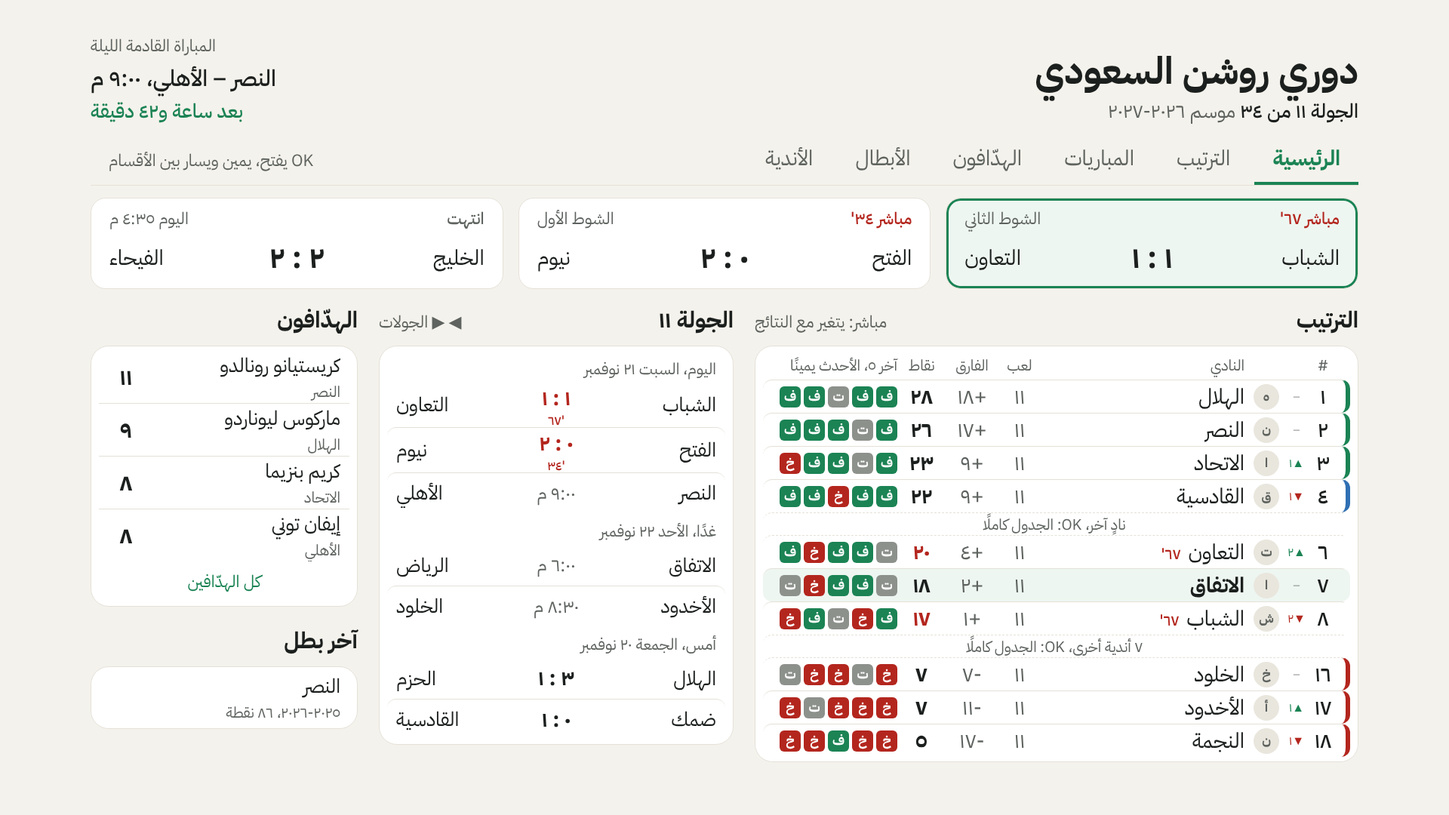
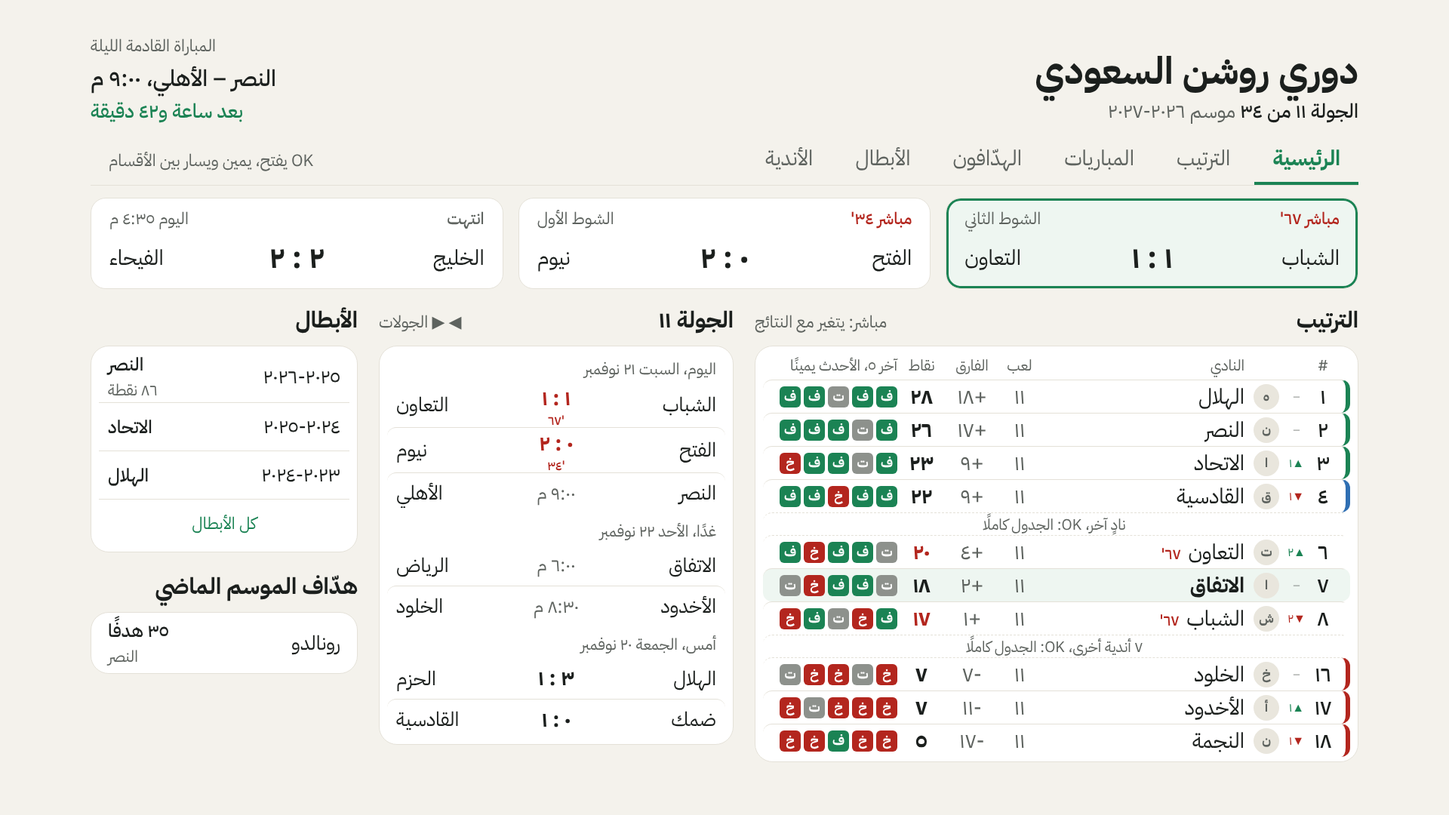
4.5 league page v2: the tester's site visit folded into the study (leagues and clubs), a club page mockup on the honours data, the home's scorers column replaced by what the data has

diff --git a/docs/mockups/league-v2/mock.html b/docs/mockups/league-v2/mock.html
@@ -159,6 +159,30 @@
   .btns button.pri{background:var(--pri);color:#fff;border-color:var(--pri)}
   .btns button.fr{box-shadow:0 0 0 calc(var(--u)*3) var(--dlg),0 0 0 calc(var(--u)*6) var(--fring)}
   .peek{color:var(--fs);font-size:calc(var(--u)*21);text-align:center;margin-top:calc(var(--u)*14)}
+  /* ---- the club page (v2): a header with the badge and the place, the form tiles and the next game, then the table around it, the coming games, the titles */
+  .ch{display:flex;align-items:center}
+  .ch .bd{width:calc(var(--u)*104);height:calc(var(--u)*104);font-size:calc(var(--u)*44);margin:0 0 0 calc(var(--u)*28)}
+  .ch h1{font-size:calc(var(--u)*56);font-weight:700;line-height:1.1}
+  .ch .sub{color:var(--fs);font-size:calc(var(--u)*26);margin-top:calc(var(--u)*4)}
+  .ch .sub b{color:var(--fi);font-weight:500}
+  .row2{display:flex;margin-top:calc(var(--u)*22)}
+  .fts{display:flex}
+  .ft{width:calc(var(--u)*128);margin-left:calc(var(--u)*14);text-align:center}
+  .ft b{display:block;border-radius:calc(var(--u)*12);color:#fff;font-size:calc(var(--u)*30);font-weight:700;padding:calc(var(--u)*10) 0;unicode-bidi:isolate}   /* RTL: the club's own goals first, on the right */
+  .ft b.w{background:var(--z1)}.ft b.d{background:#8D918C}.ft b.l{background:var(--z3)}
+  .ft span{display:block;color:var(--fs);font-size:calc(var(--u)*21);margin-top:calc(var(--u)*6);white-space:nowrap;overflow:hidden;text-overflow:ellipsis}
+  .ncard{flex:1;margin-right:calc(var(--u)*28);padding:calc(var(--u)*16) calc(var(--u)*28);display:flex;align-items:center;justify-content:space-between}
+  .ncard .k{color:var(--fs);font-size:calc(var(--u)*22)}
+  .ncard .v{font-size:calc(var(--u)*34);font-weight:700;margin-top:calc(var(--u)*4)}
+  .ncard .t{text-align:left;color:var(--fgr);font-weight:500;font-size:calc(var(--u)*28)}
+  .ncard .t i{display:block;font-style:normal;color:var(--fs);font-weight:400;font-size:calc(var(--u)*22)}
+  .hon{list-style:none;padding:calc(var(--u)*6) calc(var(--u)*10)}
+  .hon li{display:flex;align-items:center;justify-content:space-between;min-height:calc(var(--u)*64);padding:0 calc(var(--u)*12)}
+  .hon li + li{border-top:1px solid var(--fln)}
+  .hon li span{font-size:calc(var(--u)*26)}
+  .hon li i{font-style:normal;color:var(--fs);font-size:calc(var(--u)*21);text-align:left}
+  .hon li i b{display:block;color:var(--fi);font-weight:500;font-size:calc(var(--u)*24)}
+  .src{color:var(--fs);font-size:calc(var(--u)*19);margin-top:calc(var(--u)*8)}
 </style>
 </head>
 <body>
@@ -207,6 +231,29 @@ function gr(a, x, b, kind, small){
 const SCORERS = [['كريستيانو رونالدو','النصر',11],['ماركوس ليوناردو','الهلال',9],['كريم بنزيما','الاتحاد',8],['إيفان توني','الأهلي',8]];
 
 const SCREENS = {
+  clubpage(){
+    const t = CLUBS.map((c, i) => [c, i]), me = 1;   // النصر, 2nd
+    const tiles = [['٢ : ٠','w','الخليج'],['١ : ١','d','الأهلي'],['٣ : ١','w','الفتح'],['٢ : ٠','w','ضمك'],['٤ : ٠','w','الرياض']];   // oldest first; newest on the right, next to the next game
+    return `<div class="pg">
+      <div class="hd"><div class="ch">${badge('النصر').replace('class="bd"', 'class="bd"')}<div><h1>النصر</h1><div class="sub"><b>الثاني في دوري روشن السعودي</b>  ٢٦ نقطة من ١١ مباراة</div></div></div>
+        <div class="nx"><div class="k">آخر بطولة</div><div class="v">دوري روشن ٢٠٢٥-٢٠٢٦</div></div></div>
+      <ul class="tabs"><li class="on">النادي</li><li>المباريات</li><li>النتائج</li><li>البطولات</li><li>المواجهات</li><li class="f">أزل النصر من فرقي</li><li class="hint">OK يفتح، يمين ويسار بين الأقسام</li></ul>
+      <div class="row2">
+        <div><h2>آخر ٥ <i>الأحدث يمينًا</i></h2><div class="fts">${tiles.reverse().map(x => `<div class="ft"><b class="${x[1]}">${x[0]}</b><span>${x[2]}</span></div>`).join('')}</div></div>
+        <div class="ncard card"><div><div class="k">المباراة القادمة، الجولة ١١</div><div class="v">النصر – الأهلي</div></div><div class="t">الليلة ٩:٠٠ م<i>بعد ساعة و٤٢ دقيقة</i></div></div>
+      </div>
+      <div class="cols">
+        <div style="width:calc(var(--u)*760)"><h2>في الترتيب <i>OK: الجدول كاملًا</i></h2>
+          <ul class="tb card">${head(false)}${t.slice(0, 6).map(x => row(x[0], x[1], false, x[1] === me)).join('')}</ul></div>
+        <div style="width:calc(var(--u)*470)"><h2>المباريات القادمة</h2>
+          <ul class="gl card"><li class="gd">الجولة ١١، السبت ٢١ نوفمبر</li>${gr('النصر','٩:٠٠ م','الأهلي')}<li class="gd">الجولة ١٢، الجمعة ٢٨ نوفمبر</li>${gr('القادسية','٨:٠٠ م','النصر')}
+            <li class="gd">الجولة ١٣، الخميس ٤ ديسمبر</li>${gr('النصر','٨:٣٠ م','الخلود')}<li class="gd">دوري أبطال آسيا للنخبة، الثلاثاء ٩ ديسمبر</li>${gr('الغرافة','٧:٠٠ م','النصر')}</ul></div>
+        <div style="flex:1;min-width:0"><h2>البطولات</h2>
+          <ul class="hon card"><li><span>دوري روشن</span><i><b>٢٠٢٥-٢٠٢٦</b>و٩ قبله نعرفها</i></li><li><span>كأس الملك</span><i><b>٢٠٢٢-٢٠٢٣</b>و٦ قبله نعرفها</i></li>
+            <li><span>هدّاف الدوري</span><i><b>رونالدو، ٣٥ هدفًا</b>٢٠٢٣-٢٠٢٤</i></li></ul>
+          <div class="src">ما نعرف موسمه فقط، من ويكي بيانات ونتائج المباريات</div></div>
+      </div></div>`;
+  },
   home(){
     const t = CLUBS.map((c, i) => [c, i]);
     const pick = [...t.slice(0, 4), 'gap1', t[5], t[6], t[7], 'gap7', ...t.slice(15)];
@@ -221,10 +268,10 @@ const SCREENS = {
             ${gr('الشباب','١ : ١','التعاون','on',"٦٧'")}${gr('الفتح','٠ : ٢','نيوم','on',"٣٤'")}${gr('النصر','٩:٠٠ م','الأهلي')}
             <li class="gd">غدًا، الأحد ٢٢ نوفمبر</li>${gr('الاتفاق','٦:٠٠ م','الرياض')}${gr('الأخدود','٨:٣٠ م','الخلود')}
             <li class="gd">أمس، الجمعة ٢٠ نوفمبر</li>${gr('الهلال','٣ : ١','الحزم','sc')}${gr('ضمك','٠ : ١','القادسية','sc')}</ul></div>
-        <div style="flex:1;min-width:0"><h2>الهدّافون</h2>
-          <ul class="sc-l card">${SCORERS.map(s => `<li class="sc-r"><span class="n">${s[0]}<i>${s[1]}</i></span><b>${D(s[2])}</b></li>`).join('')}<li class="more">كل الهدّافين</li></ul>
-          <h2 style="margin-top:calc(var(--u)*22)">آخر بطل</h2>
-          <ul class="sc-l card"><li class="sc-r"><span class="n">النصر<i>٢٠٢٥-٢٠٢٦، ٨٦ نقطة</i></span></li></ul></div>
+        <div style="flex:1;min-width:0"><h2>الأبطال</h2>
+          <ul class="hon card"><li><span>٢٠٢٥-٢٠٢٦</span><i><b>النصر</b>٨٦ نقطة</i></li><li><span>٢٠٢٤-٢٠٢٥</span><i><b>الاتحاد</b></i></li><li><span>٢٠٢٣-٢٠٢٤</span><i><b>الهلال</b></i></li><li class="more" style="justify-content:center">كل الأبطال</li></ul>
+          <h2 style="margin-top:calc(var(--u)*22)">هدّاف الموسم الماضي</h2>
+          <ul class="hon card"><li><span>رونالدو</span><i><b>٣٥ هدفًا</b>النصر</i></li></ul></div>
       </div></div>`;
   },
   rounds(){

diff --git a/docs/research/LEAGUE-DESIGN-STUDY.md b/docs/research/LEAGUE-DESIGN-STUDY.md
@@ -17,7 +17,7 @@
 **المبادئ الخمسة:**
 
 1. **الصفحة تجيب عن «ماذا يحدث الآن وماذا بعده؟».** أعلاها: الجولة الحالية والعدّ للمباراة القادمة. تحته شريط المباشر.
-   ثم ثلاثة أعمدة: الترتيب، والجولة الحالية، والهدّافون. كل شيء آخر يبعد ضغطة OK واحدة.
+   ثم ثلاثة أعمدة: الترتيب، والجولة الحالية، والأبطال. كل شيء آخر يبعد ضغطة OK واحدة.
 2. **الترتيب في الرئيسية نافذة على الجدول، لا الجدول كله.** تُظهر الأوائل الأربعة، وفريقك والفريقين حوله، وفرق الهبوط.
    وضغطة OK تفتح الجدول كاملًا على شاشة واحدة: ١٨ صفًّا بلا تمرير، وكل الأعمدة.
 3. **لون وكلمة معًا، لا لون وحده.**
@@ -44,7 +44,22 @@
 4. نظرة سريعة على نادٍ من الجدول
 5. الرئيسية بالمظهر الداكن
 
+6. صفحة النادي
+
 كلها بحجم ١٩٢٠×١٠٨٠ و١٢٨٠×٧٢٠، وكلها بألوان صفحة «المباريات» نفسها.
+
+**ما رآه المختبِر بعينه (الخطوة ١٠٣، ١٨ نوفمبر):** فتح المختبِر FotMob وSofaScore وESPN وBBC وموقع الدوري الإنجليزي وموقع دوري روشن
+بدقة ١٢٨٠×٧٢٠، وصوّر الصفحات. هذا أكّد ما كان «لم يُتحقق». التفاصيل في القسم 2b. أهم ما وجده:
+- **المناطق:** شريط ملون على حافة الصف، في FotMob وSofaScore والدوري الإنجليزي وموقع دوري روشن.
+- **الشكل:** مربعات «ف ت خ»، في FotMob وSofaScore وBBC والدوري الإنجليزي.
+- **أسهم الصعود والنزول:** في موقع دوري روشن الرسمي وحده، وهي حركة منذ الجولة الماضية. وهو ما اقترحناه بالضبط.
+- **عمود «الخصم القادم»:** في FotMob وBBC والدوري الإنجليزي.
+- **صفحة النادي في FotMob:** صف «آخر ٥» نتائج ملونة، وبطاقة المباراة القادمة، والجدول وصف النادي مُبرز. ولا توجد فيها صفحة بطولات.
+
+**تصحيح:** بيانات الهدّافين من عمل 4.5 فيها **هدّاف كل موسم منتهٍ فقط**، لا قائمة هدّافي الموسم الجاري. لا يوجد مصدر مجاني مرخّص لأهداف كل
+مباراة. لذلك استبدلنا عمود الهدّافين في الرئيسية بـ«الأبطال» و«هدّاف الموسم الماضي».
+
+**صفحة النادي الجديدة:** النموذج ٦ في المجلد نفسه، وتفاصيلها في القسم 2c.
 
 **ما يحتاج قرار المالك:** في آخر الملف (قسم 8).
 
@@ -168,6 +183,71 @@ All of it must work with a D-pad at 3 m, at 720p, Arabic first, RTL.
 - **Scorebug trend for 2025-26: restraint.** The work is "not in adding more information, but in smarter ways to reveal it" ([SVG](https://www.sportsvideo.org/2026/06/09/designing-the-modern-scorebug-how-broadcast-graphics-teams-are-rethinking-the-most-important-element-on-screen/)). Logos have beaten letter codes ([Newscast Studio](https://www.newscaststudio.com/2025/09/25/fox-sports-nfl-score-bug-2025-season/)). Tight, square type loses its inner shapes at a distance ([critique](https://pimpmytype.com/fifa-2026-font/)).
 - **RTL charts.** Arabic outlets that mirror their UI mirror their charts too ([paper](https://rakotondravony.com/assets/pdf/alebri2024design.pdf)).
 
+### 2b. What the big sites do: the tester's own visit (step 103, 18 Nov)
+
+**Method.** The tester opened these sites at 1280×720, with no login and no cookies accepted. The images stay on the owner's PC. The notes
+are in `tester/league-shots.md` on `work/tester-report`. Where a note here differs from §2, this one is first-hand and wins.
+
+**Leagues.**
+
+| Site | Table columns | Zones | Form | Movement | Next / rounds |
+|---|---|---|---|---|---|
+| FotMob ([table](https://www.fotmob.com/leagues/536/table/saudi-pro-league)) | # team PL +- GD PTS Form Next | thin bar at the row start + legend (Champions League Elite, Qualification, League Two, Relegation) | last 5 squares, W green / D grey / L red | **none** | Next = the opponent's crest. Fixtures by date / round / team; Overview has «Round N» with arrows or a dropdown ([fixtures](https://www.fotmob.com/leagues/536/fixtures/saudi-pro-league)) |
+| SofaScore ([league](https://www.sofascore.com/football/tournament/saudi-arabia/saudi-pro-league/955)) | with All / Home / Away tabs | a small coloured chip with the zone code on the badge + «Rules and legend» below | last 5 squares | none | «By date / By round» with a «Round N» dropdown and arrows; a featured next-match card; heavy (popups, ads) |
+| ESPN ([table](https://www.espn.com/soccer/standings/_/league/KSA.1)) | club GP W D L F A GD P | none | none | none | a day strip with arrows and a calendar ([schedule](https://www.espn.com/soccer/schedule/_/league/KSA.1)) |
+| BBC Sport ([PL](https://www.bbc.com/sport/football/premier-league/table)) | P W D L F A GD Pts Form | thin separator lines between rows (after 4th, 5th), no legend in view | last 5 squares + a trailing «next» square | none | n/a |
+| premierleague.com ([tables](https://www.premierleague.com/en/tables)) | pos crest P W D L GF GA GD Pts Form Next | coloured bar at the row start | last 5 | none | Next = crest |
+| **spl.com.sa** ([standings](https://www.spl.com.sa/en/standings)) | **arrow** club P W D L GF GA GD PTS TREND | coloured bar at the row start | a TREND column that expands per club | **up green / down red / dash, since the last round** | «Overall» and season dropdowns |
+| Kooora / Yallakora | home pages only (ad and consent gates) | — | — | — | a yesterday / today / tomorrow strip with a match carousel |
+
+**Clubs (FotMob: Al-Hilal, Al-Nassr, Al-Ittihad, Liverpool; [Al-Hilal](https://www.fotmob.com/teams/2529/overview/al-hilal)).**
+- **Header:** the crest and country. Tabs: Overview, Table, Fixtures, Squad, Player stats, Team stats, Transfers, History, News.
+- **Overview, top row:** «Team form», the last 5 as coloured score chips with the opponent's crest under each; and «Next match», with the competition, time, both crests and date.
+- **Overview, below:**
+  - the league table with the club's row highlighted;
+  - a season-stats pitch with the best XI;
+  - «Fixture difficulty» for the next three;
+  - a fixtures carousel with arrows;
+  - Liverpool also has an AI-written daily news summary.
+- **Honours:** no honours page. History shows coach win % per season, past table positions, and a table per season ([history](https://www.fotmob.com/teams/2529/history/al-hilal)).
+- **Squad:** photo, name, position, flag, number, age, height and value.
+
+**What this changes in our proposal.**
+- **Confirmed:**
+  - the zone bar at the row's start, with a legend (FotMob, SofaScore, Premier League, spl.com.sa);
+  - form as W/D/L squares (four sites);
+  - movement arrows "since the last round". These are exactly the **official Roshn site's**, and that site is our users' reference, so we keep them.
+- **New idea, not taken for now:**
+  - a «next opponent» column (FotMob, BBC, Premier League). At 720p the full table has no room for it.
+  - Instead, the club sheet and the club page show the next game in full.
+- **Club page:** the FotMob overview's top row (form + next match) and its highlighted table are the backbone of our club page (§2c). Squad, player ratings and fixture difficulty are not taken: we have no data for them.
+- **Honours:** no big site gives honours a place on the club page. This is where our 4.5 honours data stands out: «البطولات» with the latest title per competition.
+
+### 2c. The club page proposal (mockup 6)
+
+[6-club-page-1080p.png](../mockups/league-v2/6-club-page-1080p.png) / [720p](../mockups/league-v2/6-club-page-720p.png)
+
+- **Header:**
+  - the badge (runtime, a letter circle until it loads), the name, and «الثاني في دوري روشن السعودي، ٢٦ نقطة من ١١ مباراة»;
+  - on the left, «آخر بطولة» from the honours champions files.
+- **Tabs:**
+  - «النادي» (this overview), then «المباريات», «النتائج», «البطولات» and «المواجهات»: today's club view's groups;
+  - follow / unfollow stays the last tab, as now.
+- **Top row:**
+  - «آخر ٥» as five score tiles, each the club's goals first, its colour, and the opponent under it, newest on the right;
+  - beside it, the next game card with the round and a fixed-box countdown.
+- **Below, «في الترتيب»:** the table window around the club, its row ringed, and OK opens the full table.
+- **Below, «المباريات القادمة»:** by round, including other competitions (the AFC game in the mockup).
+- **Below, «البطولات»:**
+  - each competition, with the latest title and «و٩ قبله نعرفها» (the honours study's honest count);
+  - «هدّاف الدوري» when one of the club's players was a season's top scorer (`scorers/<lg>/<season>.json`, `team` = the club's id).
+  - The source line is the honours one.
+- **Data:** all of it is there or coming in 4.5:
+  - `teams/<id>.json` for the next and last games;
+  - `sports/<lg>.json` for the table, form and `mv`;
+  - the honours `champions/` and `scorers/` files.
+  - No squad, no player stats.
+
 ### 3. Comparison table
 
 | Product | League home | Table: zones / form / movement / live | Next and live | Round navigation | TV (10-foot) |
@@ -234,7 +314,9 @@ All of it must work with a D-pad at 3 m, at 720p, Arabic first, RTL.
 |---|---|
 | xG / "justice table", fixture difficulty, player ratings | We have no such data (TheSportsDB free + our archive), and they are noise at 3 m. |
 | News, transfers, video highlights tabs | No data or rights; the page is for games. |
-| A tab per stat (team stats, player stats) | Too many tabs for a D-pad. Scorers only, from 4.5's honours work. |
+| A tab per stat (team stats, player stats), a current scorers list | Too many tabs for a D-pad, and no data: 4.5's honours work has each past season's top scorer only. |
+| A «next opponent» column in the table (FotMob, BBC, PL) | No room at 720p; the club sheet and the club page show the next game in full. |
+| Squad, ratings, fixture difficulty on the club page (FotMob) | No data. |
 | Kit-colour backgrounds (PL broadcast), club-coloured cards | No bundled club data or logos; colours would fight the zones. |
 | Date strip navigation (ESPN) as the main navigator | A league in progress is talked about in rounds; days remain inside a round. |
 | Swipe gestures, hover, horizontal carousels that hide items | D-pad only; the season strip shows all 34 rounds at once. |
@@ -255,7 +337,8 @@ All of it must work with a D-pad at 3 m, at 720p, Arabic first, RTL.
 | Live points | the live API (TheSportsDB free) + the table | **new**, client side, provisional |
 | Current round, countdown | `fbGames()` / `fbRound()` | there |
 | Rounds 1–34 and their games | `results/<id>.json` + coming games | there (round number per game: check coverage) |
-| Scorers, champions | 4.5 `work/45-honours` | coming |
+| Champions, a past season's top scorer | 4.5 `work/45-honours` (`champions/`, `scorers/<lg>/<season>.json`: the season's top scorer only) | coming |
+| **This season's scorers list** | none: no free licensed per-match scorers (honours study 2.1) | **not available**; the home shows «الأبطال» and «هدّاف الموسم الماضي» instead |
 | Badges | runtime (TheSportsDB) | there |
 | Zones per league | **new**: a small table per league (places → zone), kept in the archive index | to write; the owner checks it |
 

diff --git a/docs/mockups/league-v2/README.md b/docs/mockups/league-v2/README.md
@@ -8,11 +8,12 @@
 
 | الملف | ما فيه |
 |---|---|
-| [1-league-home-1080p.png](1-league-home-1080p.png) / [720p](1-league-home-720p.png) | **رئيسية دوري يُلعب الآن.** في الأعلى: الدوري، والجولة ١١ من ٣٤، والمباراة القادمة مع العدّ في صندوق ثابت. ثم شريط المباشر: مباراتان تُلعبان (الدقيقة بالأحمر) وآخر نتيجة، والتركيز على الأولى. تحته ثلاثة أعمدة: **نافذة الترتيب** (الأربعة الأوائل، والاتفاق المتابَع والناديان حوله، والهبوط) وفيها المناطق والشكل والحركة والنقاط المؤقتة لمن يلعب الآن، ثم **الجولة الحالية** مقسمة بالأيام، ثم **الهدّافون** و«آخر بطل» |
+| [1-league-home-1080p.png](1-league-home-1080p.png) / [720p](1-league-home-720p.png) | **رئيسية دوري يُلعب الآن.** في الأعلى: الدوري، والجولة ١١ من ٣٤، والمباراة القادمة مع العدّ في صندوق ثابت. ثم شريط المباشر: مباراتان تُلعبان (الدقيقة بالأحمر) وآخر نتيجة، والتركيز على الأولى. تحته ثلاثة أعمدة: **نافذة الترتيب** (الأربعة الأوائل، والاتفاق المتابَع والناديان حوله، والهبوط) وفيها المناطق والشكل والحركة والنقاط المؤقتة لمن يلعب الآن، ثم **الجولة الحالية** مقسمة بالأيام، ثم **الأبطال** و«هدّاف الموسم الماضي». بيانات 4.5 فيها هدّاف كل موسم منتهٍ فقط، لا قائمة هدّافي الموسم الجاري |
 | [2-matchweeks-1080p.png](2-matchweeks-1080p.png) / [720p](2-matchweeks-720p.png) | **شريط الجولات:** الموسم كله في صف واحد من ١ إلى ٣٤، والملعوبة مظللة، والجارية بإطار، والمختارة خضراء. يمين ويسار ينقلان جولة قبل وبعد. تحته مباريات الجولة ١٢ في بطاقات، وكل بطاقة تُفتح بـOK |
 | [3-table-full-1080p.png](3-table-full-1080p.png) / [720p](3-table-full-720p.png) | **الجدول كاملًا:** رأس الصفحة يتنحّى، فتظهر ١٨ صفًّا بلا تمرير، وكل الأعمدة (لعب، فاز، تعادل، خسر، له، عليه، الفارق، نقاط، آخر ٥). فوقه: الكل، على أرضه، خارج أرضه، قبل المباريات الجارية. وتحته مفتاح المناطق بالكلمات |
 | [4-club-quick-view-1080p.png](4-club-quick-view-1080p.png) / [720p](4-club-quick-view-720p.png) | **نظرة سريعة على نادٍ:** تفتحها OK على صف في الجدول، وتظهر لوحة على اليسار ويبقى المركز والاسم ظاهرين. فيها: فاز، تعادل، خسر، له، عليه، والمباراة القادمة وعدّها، وآخر النتائج، والأزرار (صفحة النادي، المواجهات، أزل من فرقي). أعلى وأسفل ينقلان للنادي الذي فوقه أو تحته |
 | [5-league-home-dark-1080p.png](5-league-home-dark-1080p.png) | الرئيسية بالمظهر الداكن (`#pagedark=1`) |
+| [6-club-page-1080p.png](6-club-page-1080p.png) / [720p](6-club-page-720p.png) | **صفحة النادي:** في الأعلى الشعار والاسم ومركزه ونقاطه، و«آخر بطولة». ثم الأقسام: النادي، المباريات، النتائج، البطولات، المواجهات، والمتابعة. ثم «آخر ٥» في خمس بطاقات (أهداف النادي أولًا، والخصم تحتها، والأحدث يمينًا) وبجانبها بطاقة المباراة القادمة مع العدّ. وتحتها: الترتيب حول النادي وصفّه مُبرز، والمباريات القادمة بالجولات (ومعها البطولات الأخرى)، و«البطولات»: آخر لقب في كل بطولة، وعدد ما نعرفه قبله، و«هدّاف الدوري» إن كان من لاعبي النادي. البيانات من ملفات النادي والدوري وبيانات البطولات في 4.5 |
 | [mock.html](mock.html) و[render.mjs](render.mjs) | مصدر النماذج. الأمر `node docs/mockups/league-v2/render.mjs` يعيد رسمها (Playwright) |
 
 **القواعد في النماذج:**
